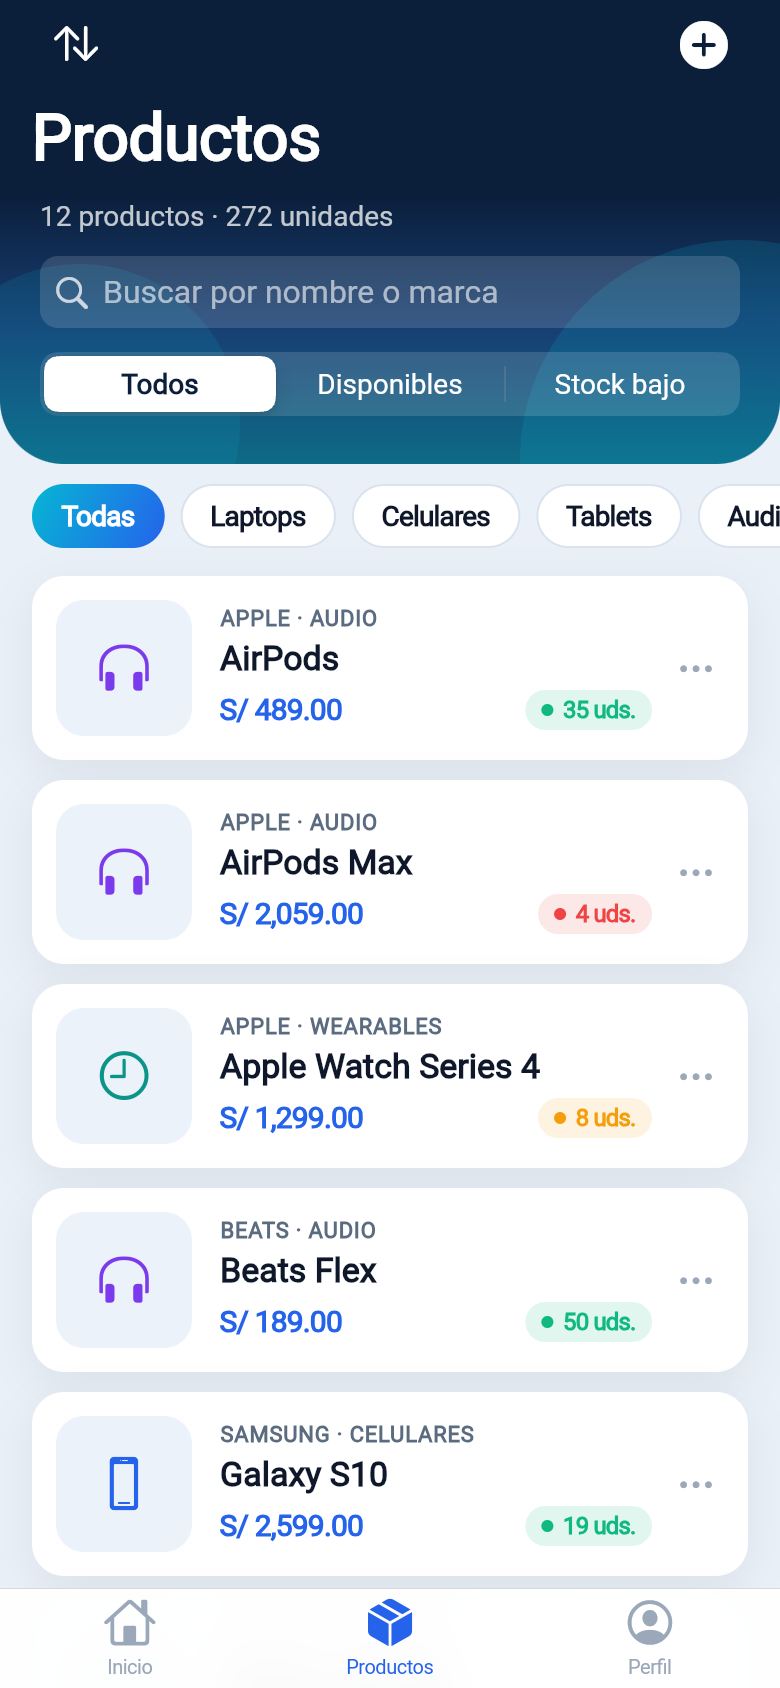
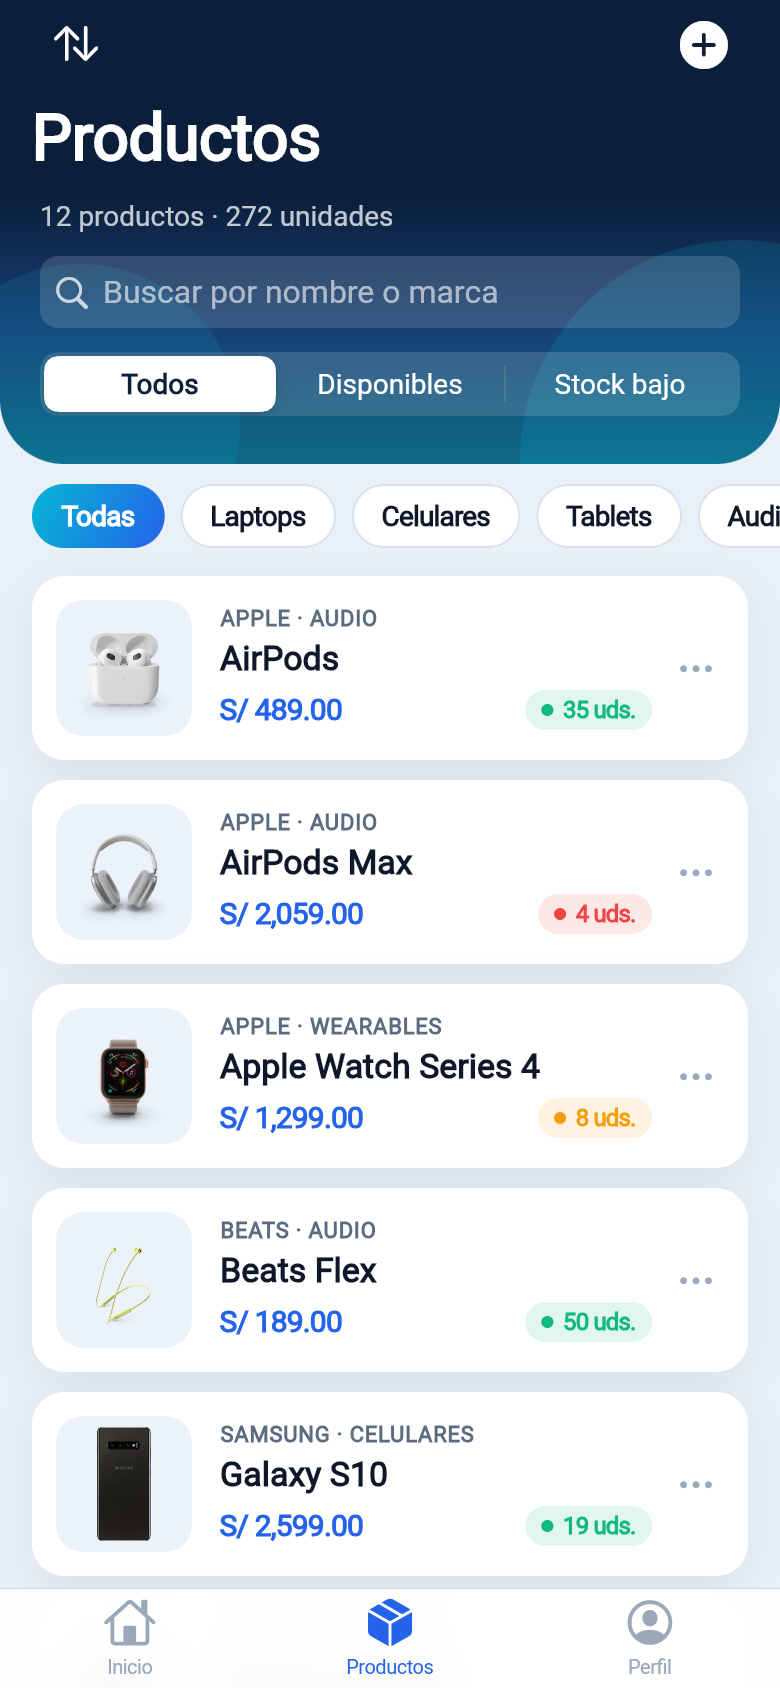
Capturas con fotos de productos y componentes Cupertino; corrección de la versión DartPad

diff --git a/dartpad/main.dart b/dartpad/main.dart
@@ -2542,7 +2542,7 @@ class MenuScreen extends StatelessWidget {
                     children: [
                       _Saludo(fecha: fechaHoy()),
                       const SizedBox(height: 18),
-                      _Resumen(
+                      _ResumenInventario(
                         productos: productos.length,
                         unidades: AppData.totalUnidades,
                         valor: AppData.valorInventario,
@@ -2748,13 +2748,13 @@ class _Saludo extends StatelessWidget {
 }
 
 /// Tarjeta translúcida con el valor total del inventario
-class _Resumen extends StatelessWidget {
+class _ResumenInventario extends StatelessWidget {
   final int productos;
   final int unidades;
   final double valor;
   final int stockBajo;
 
-  const _Resumen({
+  const _ResumenInventario({
     required this.productos,
     required this.unidades,
     required this.valor,
@@ -4045,7 +4045,8 @@ class _GaleriaSheetState extends State<_GaleriaSheet> {
                       padding: const EdgeInsets.symmetric(horizontal: 14),
                       alignment: Alignment.center,
                       decoration: BoxDecoration(
-                        color: activa ? AppColors.label : AppColors.card,
+                        gradient: activa ? AppColors.brandGradient : null,
+                        color: activa ? null : AppColors.card,
                         borderRadius: BorderRadius.circular(18),
                       ),
                       child: Text(
@@ -4107,7 +4108,10 @@ class _GaleriaSheetState extends State<_GaleriaSheet> {
                             maxLines: 1,
                             overflow: TextOverflow.ellipsis,
                             style: const TextStyle(
-                                fontSize: 12, fontWeight: FontWeight.w500),
+                              fontSize: 12,
+                              fontWeight: FontWeight.w500,
+                              color: AppColors.label,
+                            ),
                           ),
                         ],
                       ),

diff --git a/lib/screens/registrar_producto_screen.dart b/lib/screens/registrar_producto_screen.dart
@@ -690,7 +690,8 @@ class _GaleriaSheetState extends State<_GaleriaSheet> {
                       padding: const EdgeInsets.symmetric(horizontal: 14),
                       alignment: Alignment.center,
                       decoration: BoxDecoration(
-                        color: activa ? AppColors.label : AppColors.card,
+                        gradient: activa ? AppColors.brandGradient : null,
+                        color: activa ? null : AppColors.card,
                         borderRadius: BorderRadius.circular(18),
                       ),
                       child: Text(
@@ -752,7 +753,10 @@ class _GaleriaSheetState extends State<_GaleriaSheet> {
                             maxLines: 1,
                             overflow: TextOverflow.ellipsis,
                             style: const TextStyle(
-                                fontSize: 12, fontWeight: FontWeight.w500),
+                              fontSize: 12,
+                              fontWeight: FontWeight.w500,
+                              color: AppColors.label,
+                            ),
                           ),
                         ],
                       ),

diff --git a/lib/screens/menu_screen.dart b/lib/screens/menu_screen.dart
@@ -86,7 +86,7 @@ class MenuScreen extends StatelessWidget {
                     children: [
                       _Saludo(fecha: fechaHoy()),
                       const SizedBox(height: 18),
-                      _Resumen(
+                      _ResumenInventario(
                         productos: productos.length,
                         unidades: AppData.totalUnidades,
                         valor: AppData.valorInventario,
@@ -292,13 +292,13 @@ class _Saludo extends StatelessWidget {
 }
 
 /// Tarjeta translúcida con el valor total del inventario
-class _Resumen extends StatelessWidget {
+class _ResumenInventario extends StatelessWidget {
   final int productos;
   final int unidades;
   final double valor;
   final int stockBajo;
 
-  const _Resumen({
+  const _ResumenInventario({
     required this.productos,
     required this.unidades,
     required this.valor,

diff --git a/README.md b/README.md
@@ -52,6 +52,12 @@ docs/capturas/                        # Capturas de la app
 
 ## Capturas
 
-| 1. Login | 2. Menú | 3. Listar productos | 4. Registrar producto | 5. Perfil |
-|:---:|:---:|:---:|:---:|:---:|
-| <img src="docs/capturas/01-login.png" width="180"> | <img src="docs/capturas/02-menu.png" width="180"> | <img src="docs/capturas/03-listar.png" width="180"> | <img src="docs/capturas/04-registrar.png" width="180"> | <img src="docs/capturas/05-perfil.png" width="180"> |
+| 1. Login | 2. Menú | 3. Listar productos | 4. Registrar producto |
+|:---:|:---:|:---:|:---:|
+| <img src="docs/capturas/01-login.png" width="180"> | <img src="docs/capturas/02-menu.png" width="180"> | <img src="docs/capturas/03-listar.png" width="180"> | <img src="docs/capturas/04-registrar.png" width="180"> |
+| `CupertinoFormSection` · `CupertinoTextFormFieldRow` · `CupertinoSwitch` | `CupertinoSliverNavigationBar` · `CupertinoTabBar` · `CupertinoListSection` | `CupertinoSearchTextField` · `CupertinoSlidingSegmentedControl` · `CupertinoButton` | `CupertinoNavigationBar` · `CupertinoFormSection` · `CupertinoTextFormFieldRow` |
+
+| 5. Perfil | 6. Opciones de producto | 7. Elegir categoría | 8. Cerrar sesión |
+|:---:|:---:|:---:|:---:|
+| <img src="docs/capturas/05-perfil.png" width="180"> | <img src="docs/capturas/06-action-sheet.png" width="180"> | <img src="docs/capturas/07-picker.png" width="180"> | <img src="docs/capturas/08-alerta.png" width="180"> |
+| `CupertinoListSection` · `CupertinoListTile` · `CupertinoSwitch` | `CupertinoActionSheet` | `CupertinoPicker` | `CupertinoAlertDialog` |
